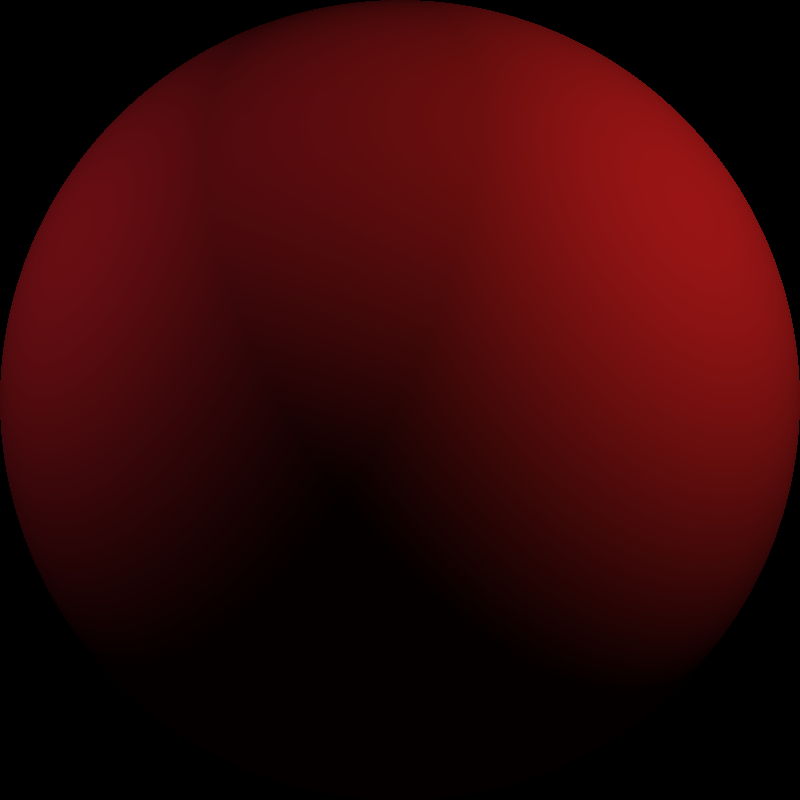
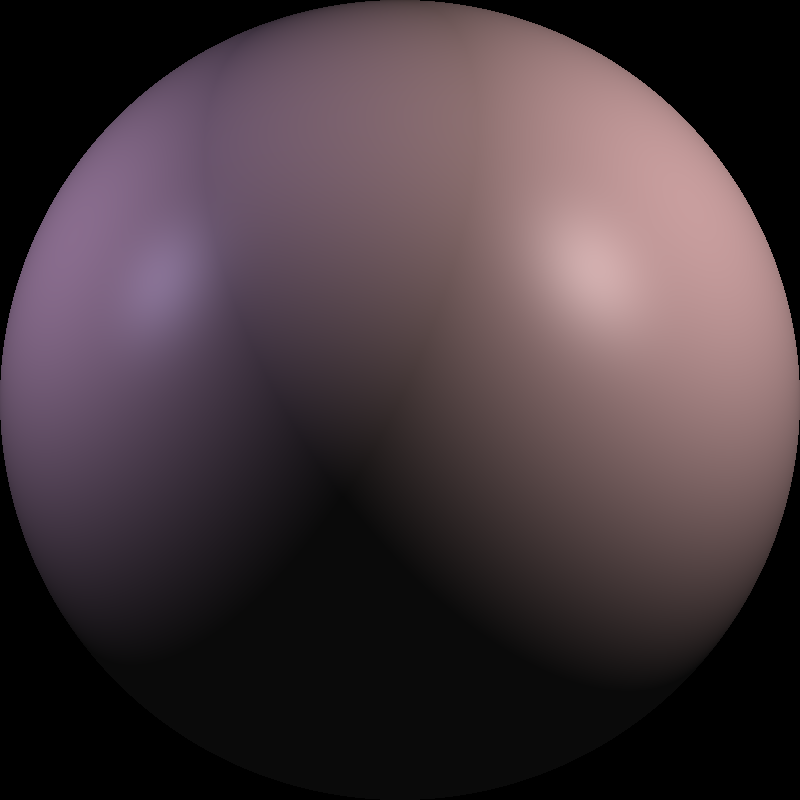
koniec

diff --git a/Rendering_with_Phong_lighting_model/src/Renderer.java b/Rendering_with_Phong_lighting_model/src/Renderer.java
@@ -1,4 +1,5 @@
 // Renderer class
+import java.awt.*;
 import java.awt.image.BufferedImage;
 
 class Renderer {
@@ -17,9 +18,9 @@ class Renderer {
 
 
                 Vector3 direction = new Vector3(0, 0, 1);
-                Vector3 rayOrigin = new Vector3(world_x, world_y, wolrd_z);
+                Vector3 rayFrom = new Vector3(world_x, world_y, wolrd_z);
 
-                Ray ray = new Ray(rayOrigin, direction);
+                Ray ray = new Ray(rayFrom, direction);
                 Vector3 color = traceRay(ray, scene);
 
 
@@ -32,7 +33,7 @@ class Renderer {
                 int r = (int) (color.x * 255);
                 int g = (int) (color.y * 255);
                 int b = (int) (color.z * 255);
-                int rgb = (r << 16) | (g << 8) | b;
+                int rgb = new Color(r, g, b).getRGB();
 
                 image.setRGB(j, i, rgb);
             }
@@ -46,7 +47,8 @@ class Renderer {
 
         if (scene.sphere.intersect(ray, t)) {
 
-            Vector3 hitPoint = new Vector3(ray.origin.x, ray.origin.y, ray.origin.z + t[0]);
+            // t[0] - distance to the intersection point
+            Vector3 hitPoint = new Vector3(ray.origin.x, ray.origin.y, t[0]);
 
             Vector3 normal = hitPoint.normalize();
 
@@ -55,7 +57,7 @@ class Renderer {
             Vector3 viewDir = new Vector3(0, 0, -1);
 
 
-            // Oc
+            // Sc
             Vector3 color = material.selfLuminance;
 
             //kaC * Ac
@@ -85,6 +87,8 @@ class Renderer {
                         material.diffuseCoeff.y * light.intensity.y * diffuseFactor * attenuation,
                         material.diffuseCoeff.z * light.intensity.z * diffuseFactor * attenuation
                 ));
+
+                //specular
 
                 Vector3 reflectedViewDir = viewDir.multiply(-1).reflect(normal);
                 double specularFactor = Math.pow(Math.max(0, reflectedViewDir.dot(lightDir)), material.glossiness);

diff --git a/Rendering_with_Phong_lighting_model/src/SceneLoader.java b/Rendering_with_Phong_lighting_model/src/SceneLoader.java
@@ -41,14 +41,14 @@ class SceneLoader {
             }
 
             //Load sphere properties
-            double[] sphereValues = readNextDoubles(scanner, 4);
+            double[] sphereValues = readNextDoubles(scanner, 1);
 
             //Load material properties
-            double[] kd = readNextDoubles(scanner, 3); // difuzja
-            double[] ks = readNextDoubles(scanner, 3); // odbicia lustrzane
-            double[] ka = readNextDoubles(scanner, 3); // światło otoczenia
-            double[] s = readNextDoubles(scanner, 3);  // własne świecenie
-            double glossiness = readNextDoubles(scanner, 1)[0]; // połyskliwość
+            double[] kd = readNextDoubles(scanner, 3);
+            double[] ks = readNextDoubles(scanner, 3);
+            double[] ka = readNextDoubles(scanner, 3);
+            double[] s = readNextDoubles(scanner, 3);
+            double glossiness = readNextDoubles(scanner, 1)[0];
 
             Material material = new Material(
                     new Vector3(kd[0], kd[1], kd[2]),
@@ -59,7 +59,7 @@ class SceneLoader {
             );
 
             scene.sphere = new Sphere(
-                    sphereValues[3],
+                    sphereValues[0],
                     material
             );
 

diff --git a/Rendering_with_Phong_lighting_model/src/PhongSphereRaytracer.java b/Rendering_with_Phong_lighting_model/src/PhongSphereRaytracer.java
@@ -23,11 +23,9 @@ public class PhongSphereRaytracer {
         frame.setDefaultCloseOperation(WindowConstants.EXIT_ON_CLOSE);
         frame.setLayout(new BorderLayout());
 
-        // Panel obrazka
         ImagePanel imagePanel = new ImagePanel(renderScene(sceneFile.getAbsolutePath()));
         frame.add(imagePanel, BorderLayout.CENTER);
 
-        // Przycisk odświeżania
         JButton refreshButton = new JButton("Odśwież");
         refreshButton.addActionListener(e -> {
             BufferedImage newImage = renderScene(sceneFile.getAbsolutePath());

diff --git a/Rendering_with_Phong_lighting_model/src/RayTracingObjects.java b/Rendering_with_Phong_lighting_model/src/RayTracingObjects.java
@@ -1,3 +1,5 @@
+import java.awt.*;
+
 // Ray class
 class Ray {
     Vector3 origin;
@@ -47,7 +49,8 @@ class Sphere {
             return false;
         }
         // t = r - sqrt(r^2 - x^2 - y^2)
-        t[0] = radius - Math.sqrt(radius*radius - x*x - y*y);
+        // distance
+        t[0] = -Math.sqrt(radius*radius - x*x - y*y);
         return true;
     }
 
